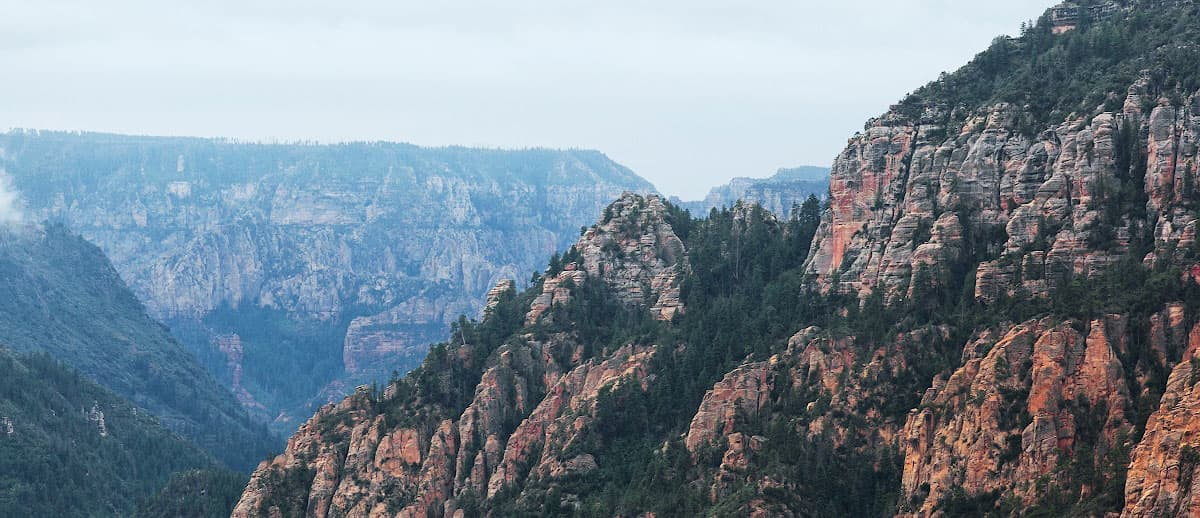
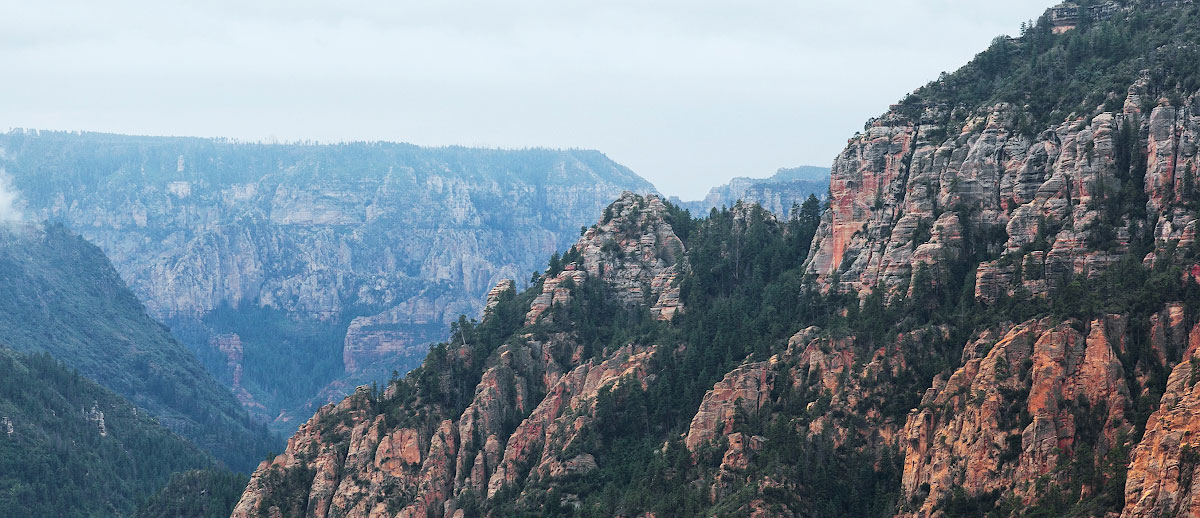
added responsive image style

diff --git a/source/sass/blocks/page-intro.scss b/source/sass/blocks/page-intro.scss
@@ -16,15 +16,18 @@
   background-image: url("../img/bg-back-mobile@1x.jpg");
   background-position: center;
   background-repeat: no-repeat;
-  background-size: cover;
+  background-size: auto;
   background-color: $accent-background;
   width: 100%;
+  height: 389px;
   margin-bottom: 22px;
   position: relative;
 
   @media (min-width: $tablet-width) {
     background-image: url("../img/bg-back-tablet@1x.jpg");
+    background-size: 100% 100%;
     margin-bottom: 31px;
+    height: 518px;
   }
 
   @media (min-width: $desktop-width) {

diff --git a/source/sass/blocks/page-body.scss b/source/sass/blocks/page-body.scss
@@ -32,11 +32,6 @@
   @media (min-width: $desktop-width) {
     min-width: 1200px;
   }
-
-  @media (min-width: 1300px) {
-    max-width: 1300px;
-    box-shadow: 0 0 10px rgba(0, 0, 0, 0.5);
-  }
 }
 
 .visually-hidden {

diff --git a/source/sass/blocks/index/advantages.scss b/source/sass/blocks/index/advantages.scss
@@ -217,6 +217,7 @@
 
 .advantages__image-advantage {
   width: 100%;
+  object-position: 0px -70px;
 }
 
 .advantages__description-wrapper {
